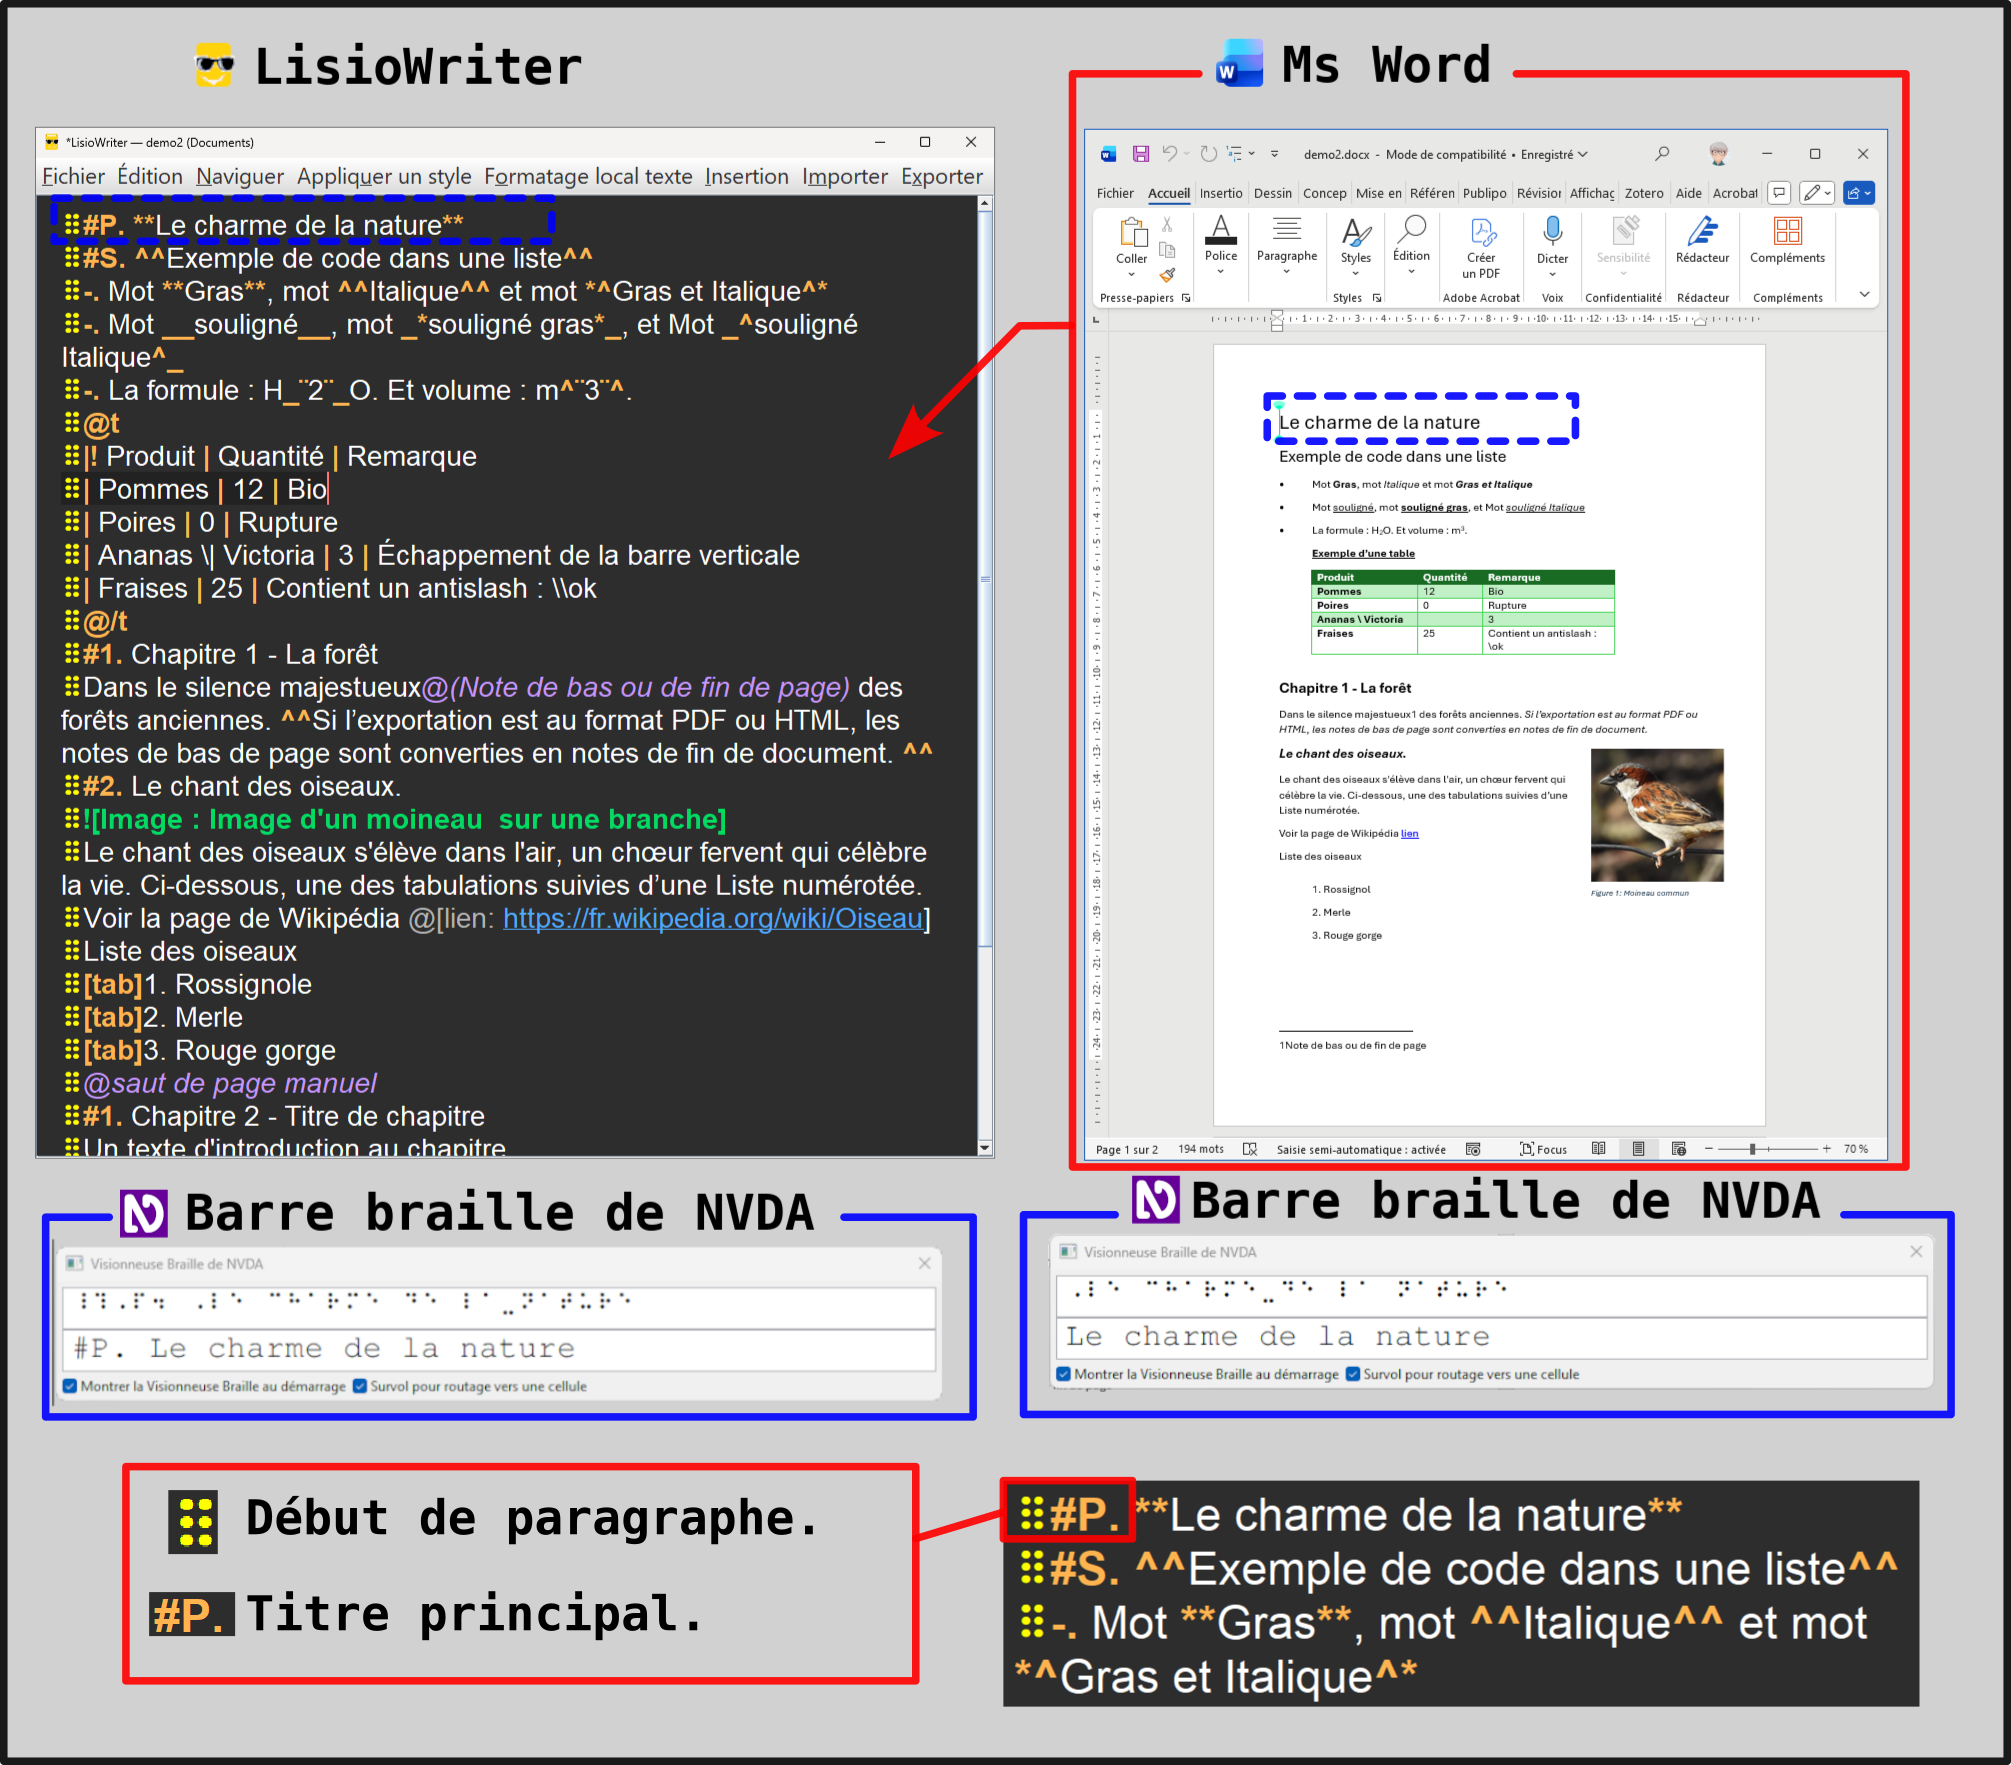
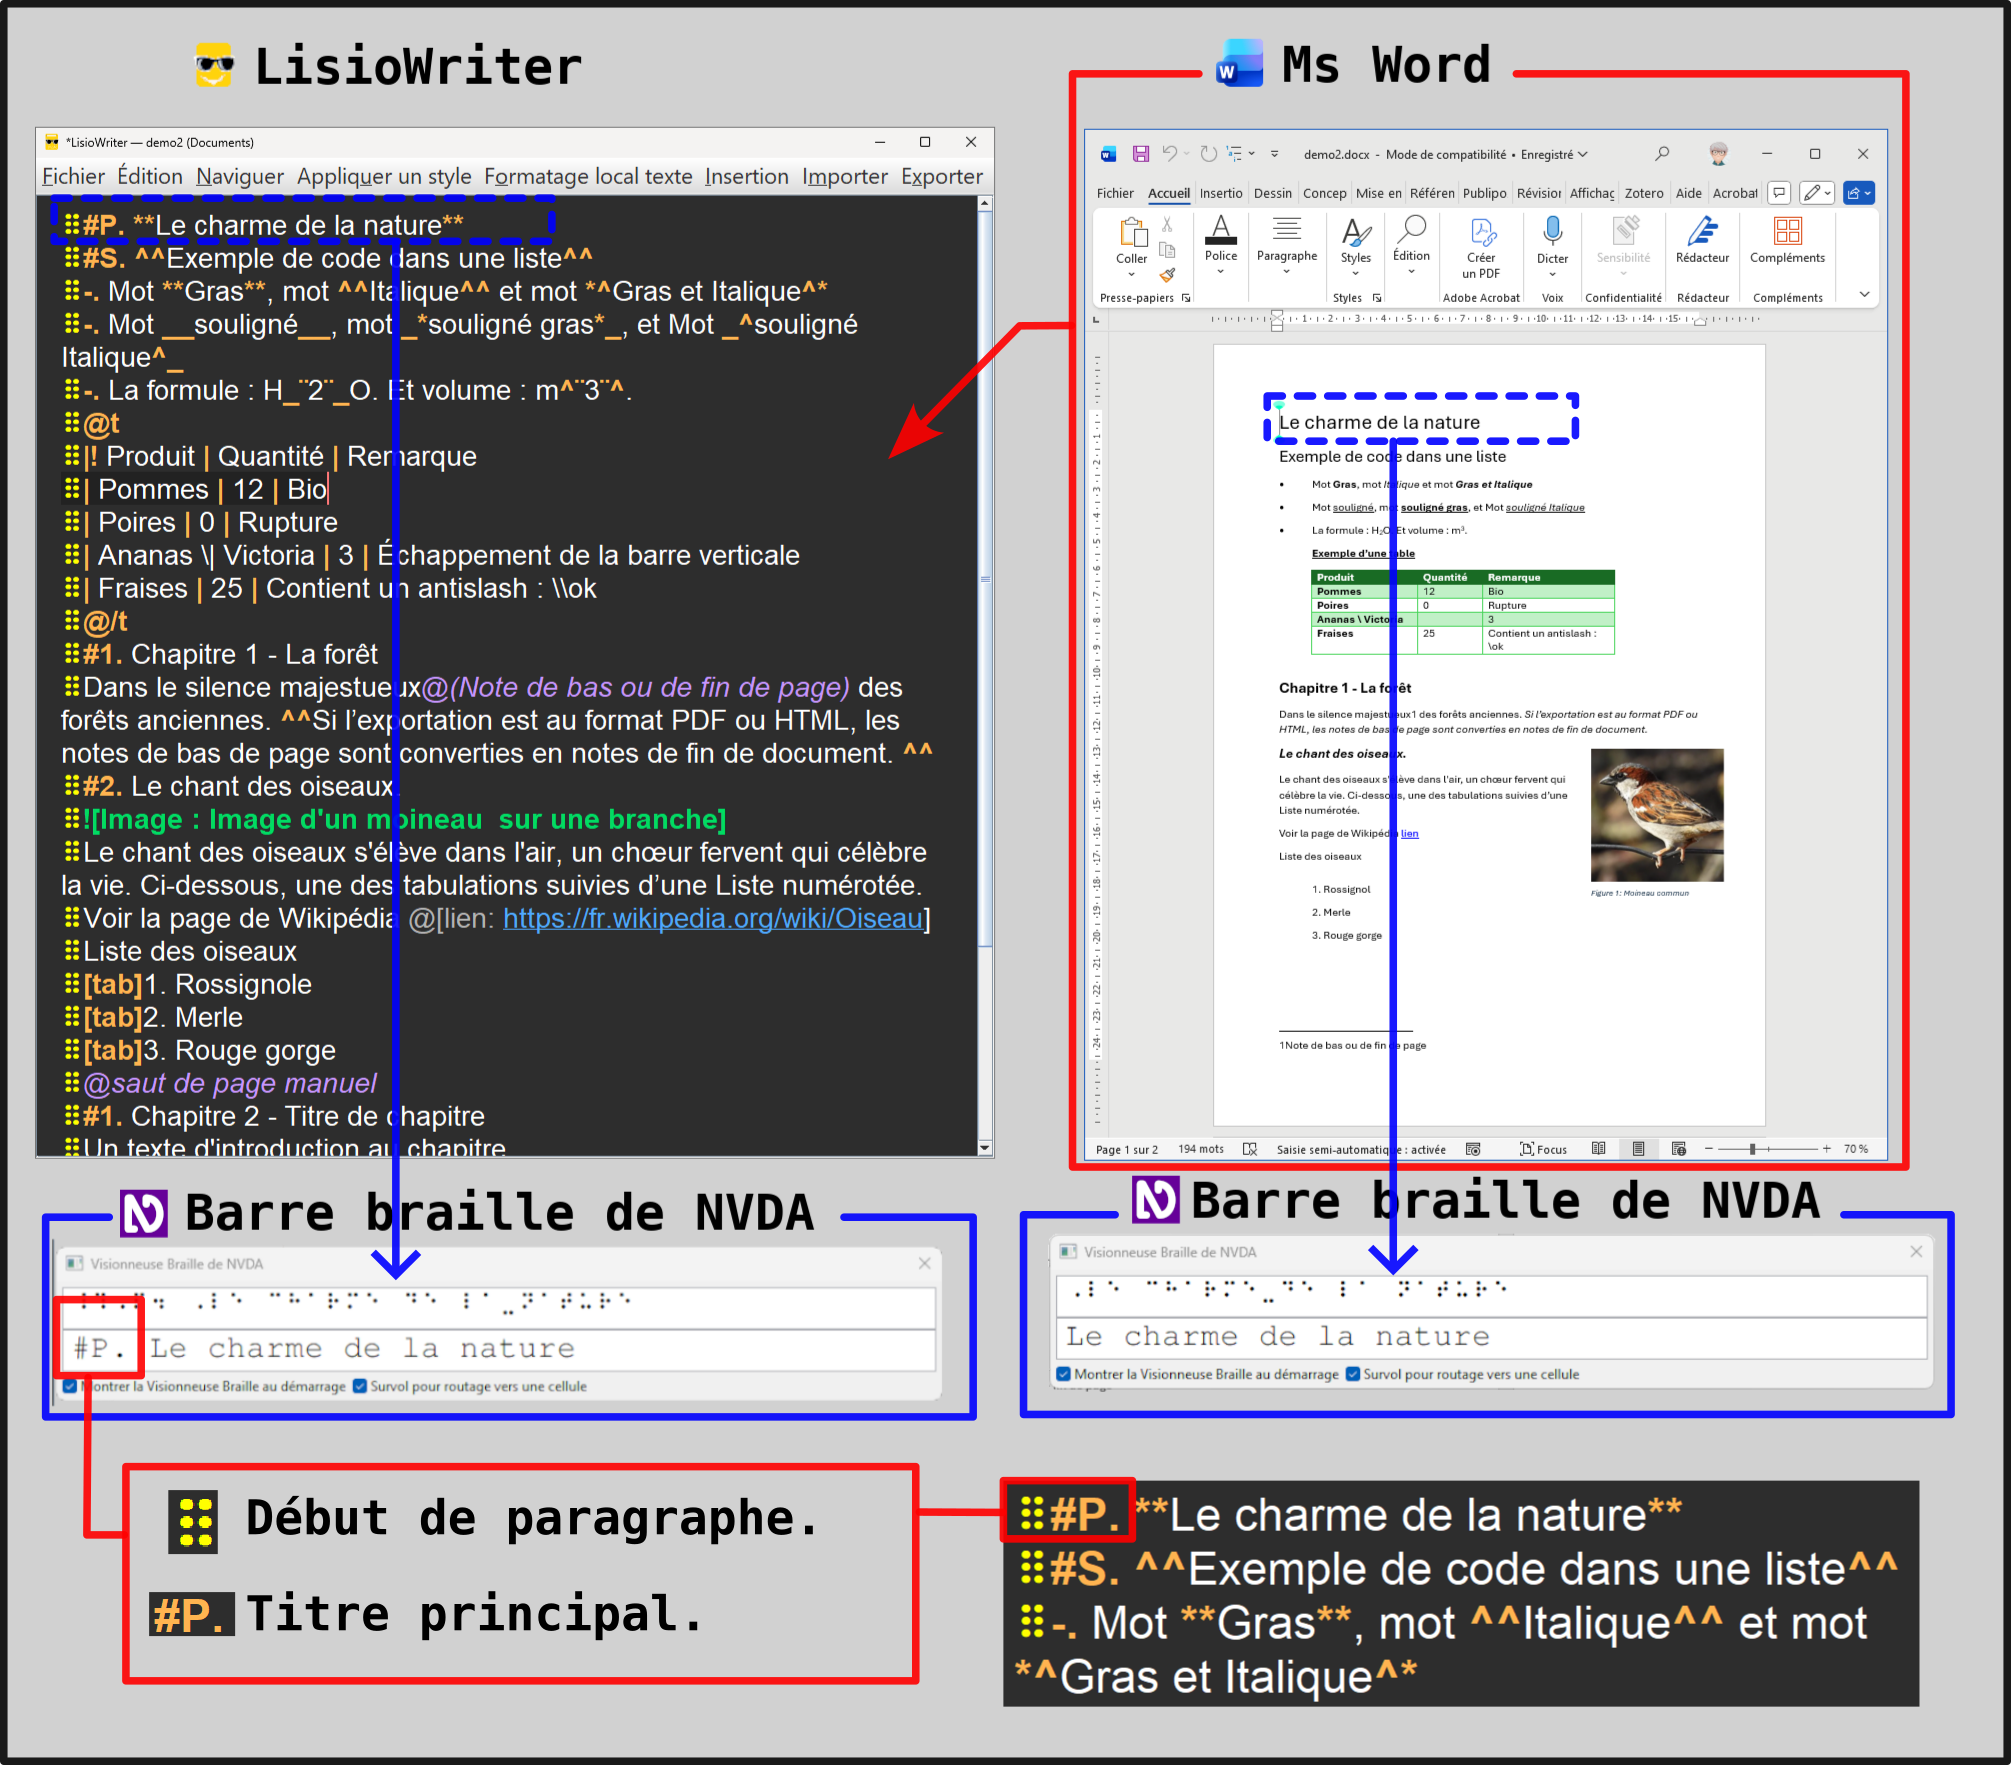
UPD: Mise à jour des importation des fichiers en tenant en compte du caractère barille début de paragraphe. UDP: demo

diff --git a/src/writer/ui/editor/BraillePrefixer.java b/src/writer/ui/editor/BraillePrefixer.java
@@ -104,18 +104,16 @@ public final class BraillePrefixer {
      */
     public static String addBrailleAtParagraphStarts(String text) {
         // normalise les fins de ligne pour itérer proprement
-        String norm = text.replace("\r\n", "\n").replace('\r', '\n');
+        String norm = text.replace("^\s?\n+", "").replace("\n\n", "\n").replace("\r+", "\n").replace('\r', '\n');
         String[] lines = norm.split("\n", -1); // -1 pour conserver les vides de fin
         StringBuilder out = new StringBuilder(norm.length() + lines.length * 2);
 
         for (int i = 0; i < lines.length; i++) {
             String line = lines[i];
-            if (line.isBlank()) {           	
-            	out.append(BRAILLE).append(line);
-            } else if (LEADING_BRAILLE.matcher(line).find()) {
+            if (LEADING_BRAILLE.matcher(line).find()) {
                 out.append(line); // déjà préfixé : ne pas dupliquer
             } else {
-                out.append(BRAILLE).append(' ').append(line);
+                out.append(BRAILLE).append(line);
             }
             if (i < lines.length - 1) out.append('\n');
         }

diff --git a/src/dia/ouvrirHTML.java b/src/dia/ouvrirHTML.java
@@ -360,7 +360,8 @@ public final class ouvrirHTML extends JDialog {
         	try {
         		System.out.println("Lecture du fichier .html");
         		String converted = HtmlImporter.importFileToBlindWriter(sel, sel.getParentFile().toURI().toString());
-        		parent.getEditor().getDocument().insertString(parent.getEditor().getDocument().getLength(), converted, null);
+        		//parent.getEditor().getDocument().insertString(parent.getEditor().getDocument().getLength(), converted, null);
+        		parent.getEditor().setText(converted);
         		// replacer le caret au tout début :
         		parent.getEditor().setCaretPosition(0);
         	} catch (Exception ex) {

diff --git a/src/writer/readFileTXT.java b/src/writer/readFileTXT.java
@@ -13,6 +13,7 @@ import java.nio.file.Path;
 import javax.swing.SwingUtilities;
 
 import writer.ui.EditorFrame;
+import writer.ui.editor.BraillePrefixer;
 
 public final class readFileTXT {
 
@@ -60,7 +61,7 @@ public final class readFileTXT {
             }
 
             // Afficher dans l’éditeur
-            parent.getEditor().setText(texte != null ? texte : "");
+            parent.getEditor().setText(texte != null ? BraillePrefixer.addBrailleAtParagraphStarts(texte) : BraillePrefixer.addBrailleAtParagraphStarts(""));
             
             // initialisation des bookmarks
             parent.createNewBookmarkManager();

diff --git a/src/Import/HtmlImporter.java b/src/Import/HtmlImporter.java
@@ -12,6 +12,8 @@ import org.jsoup.nodes.Element;
 import org.jsoup.nodes.Node;
 import org.jsoup.nodes.TextNode;
 
+import writer.ui.editor.BraillePrefixer;
+
 /**
 * Convertit un document HTML en markup "lisioWriter".
 * Règles simples :
@@ -36,7 +38,8 @@ public final class HtmlImporter {
      Element body = doc.body();
      StringBuilder out = new StringBuilder();
      traverseChildren(body, out, 0, null);
-     return tidyOutput(out.toString());
+     String text = BraillePrefixer.addBrailleAtParagraphStarts(out.toString());
+     return tidyOutput(text);
  }
 
  

diff --git a/src/dia/ouvrirTxt.java b/src/dia/ouvrirTxt.java
@@ -277,13 +277,6 @@ public final class ouvrirTxt extends JDialog {
             }
         });
 
-//        SwingUtilities.invokeLater(() -> {
-//            fileList.requestFocusInWindow();
-//            File dir = commandes.currentDirectory;
-//            String msg = (dir != null ? "Ouvrir — Dossier " + dir.getName() : "Ouvrir — Racine système")
-//                    + ". " + status.getText();
-//            announceHere(msg,true,true);
-//        });
 
         setVisible(true);
     }

diff --git a/src/Import/OdtReader.java b/src/Import/OdtReader.java
@@ -20,6 +20,7 @@ import org.w3c.dom.Node;
 import org.w3c.dom.NodeList;
 
 import Import.odt.style.*;
+import writer.ui.editor.BraillePrefixer;
 
 
 /**
@@ -66,7 +67,9 @@ public class OdtReader {
         }
 
         zipFile.close();
-        return result.toString();
+        
+        String text = BraillePrefixer.addBrailleAtParagraphStarts(result.toString());
+        return text;
     }
 
     private static Document parseXmlFromZip(ZipFile zipFile, String entryName) throws Exception {
